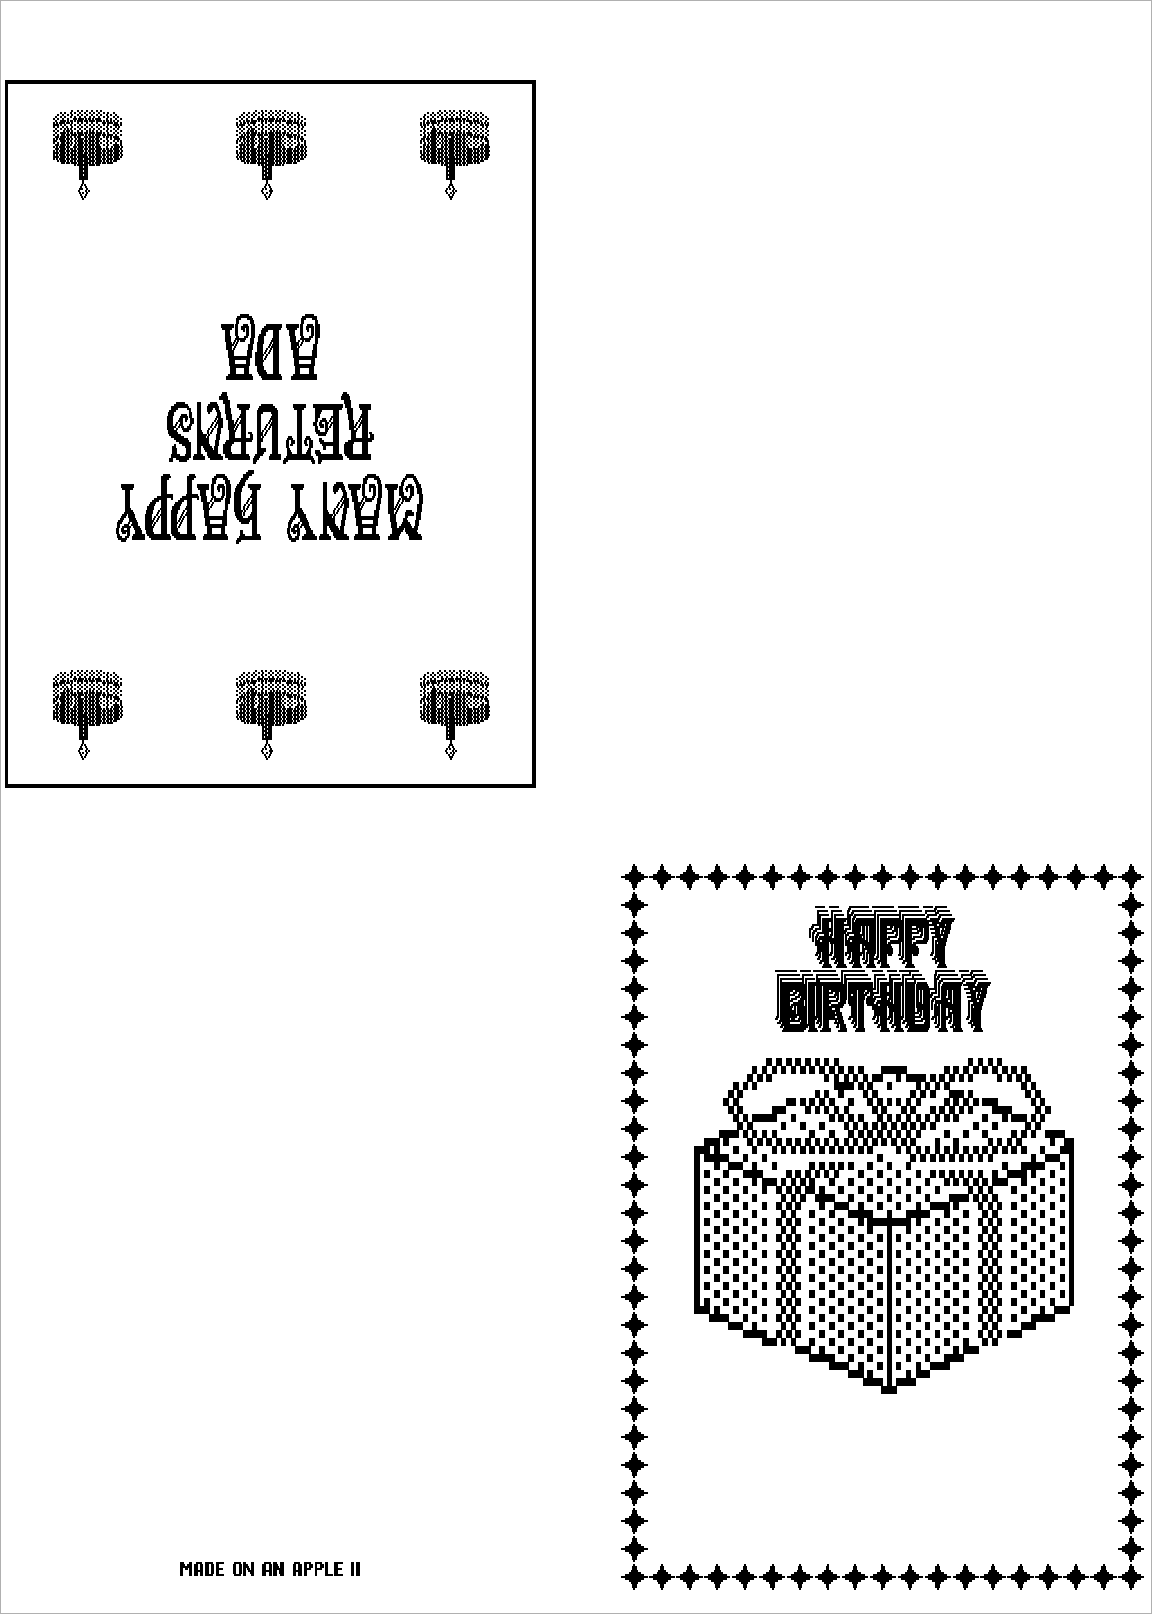
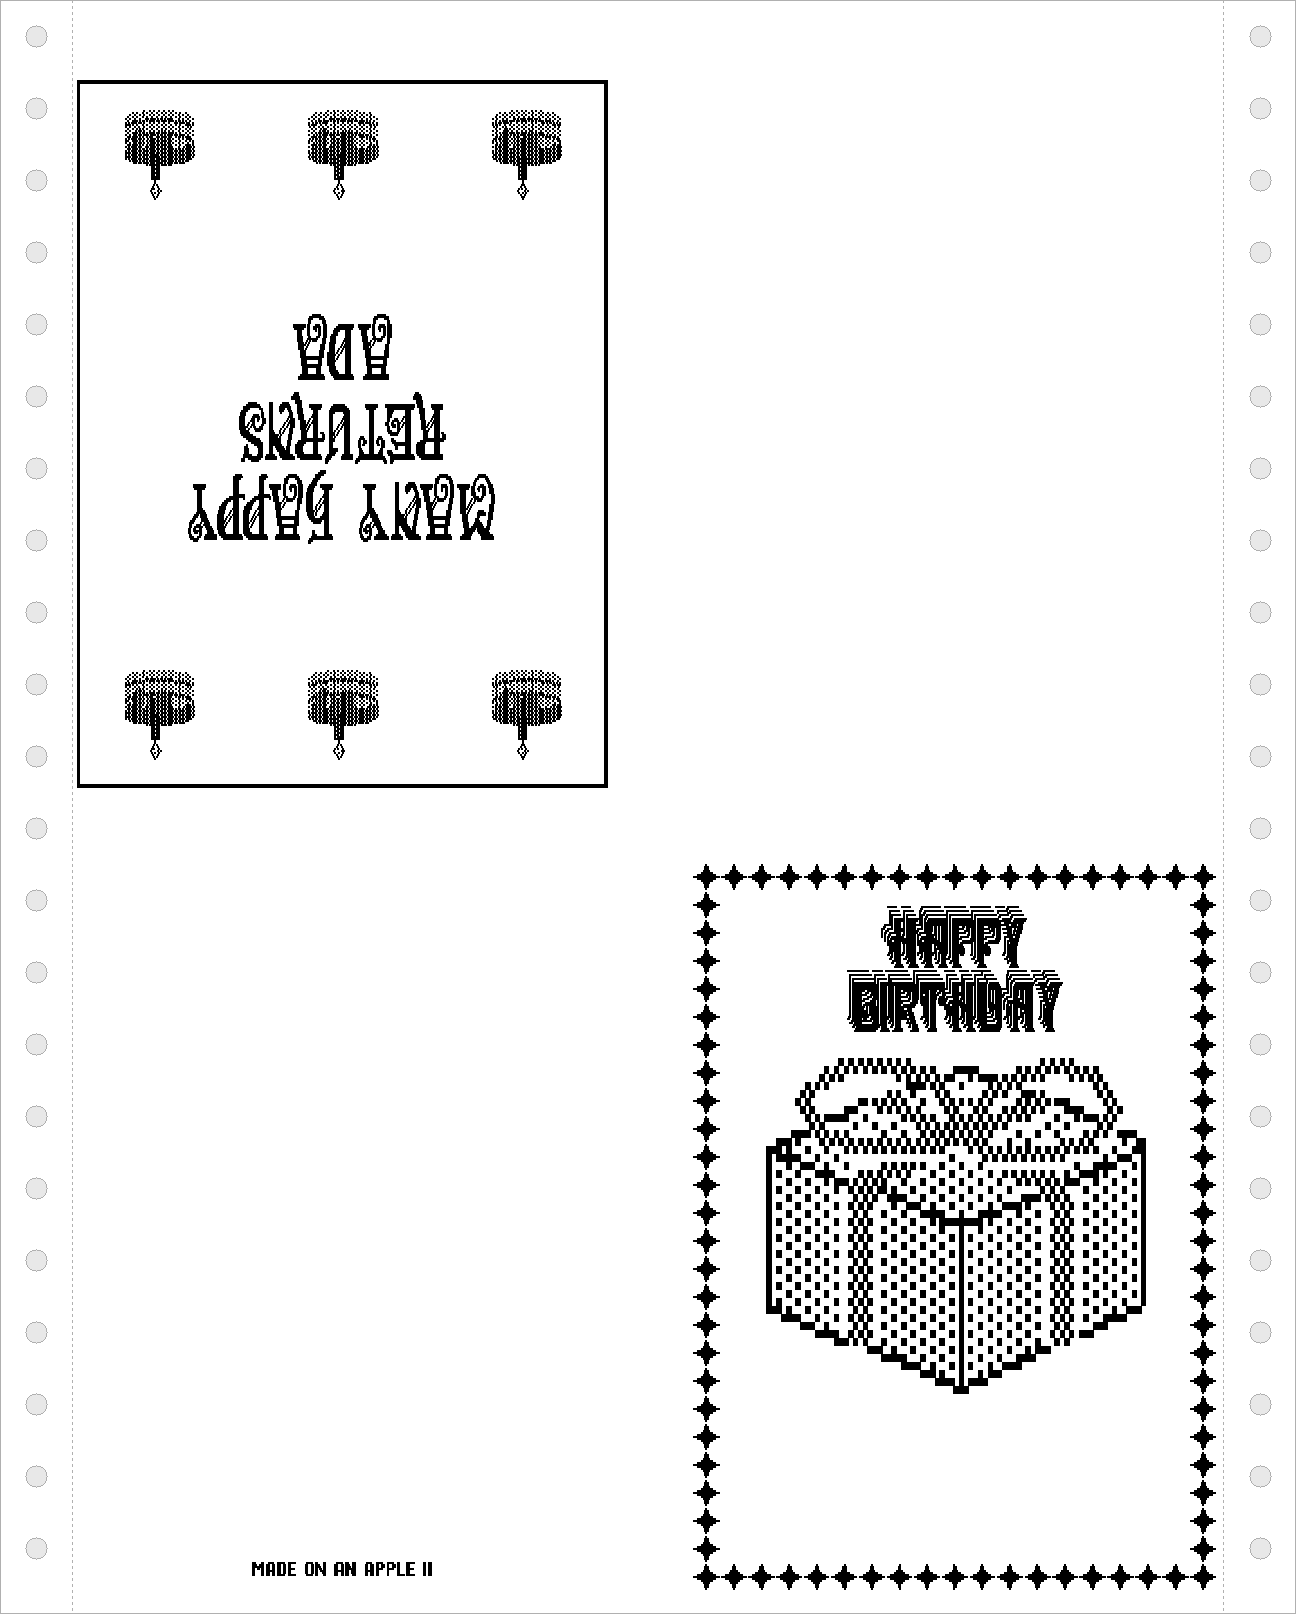
Draw the printouts of The Print Shop on paper with its strips of holes
The paper of the ImageWriter was continuous, fed by the holes of a strip
at each side, torn off after printing. With the strips the pictures look
like what came out of the printer, and the banner like the strip of paper
it was.

diff --git a/activities/printshop_test.go b/activities/printshop_test.go
@@ -427,8 +427,8 @@ func colourful(s *image.RGBA) bool {
 printout draws on paper what was printed since the printout before, with
 imagewriter2, which reads the codes of the ImageWriter and places each dot
 where the print head puts it, at 144 dots an inch, and keeps it as a picture
-of the guide, with a grey line at the edges of the paper. A banner, longer
-than it is wide, is turned to be read as it hangs.
+of the guide, with a grey line at the edges of the paper and its strips of
+holes. A banner, longer than it is wide, is turned to be read as it hangs.
 */
 func (ps *printShop) printout(name string) {
 	ps.t.Helper()
@@ -465,13 +465,23 @@ func (ps *printShop) printout(name string) {
 }
 
 // edged is a picture of the paper with a grey line around it, a margin of
-// paper around what was printed
+// paper around what was printed, and the strips of the continuous paper at
+// its sides, half an inch with a hole every half inch, torn off along a
+// perforation; a line or two, too short for them, has none
 func edged(drawn image.Image) *image.RGBA {
-	const margin = 24
+	const (
+		margin = 24
+		strip  = 72 // half an inch at 144 dots an inch
+		hole   = 22 // 5/32 of an inch
+	)
 	b := drawn.Bounds()
-	page := image.NewRGBA(image.Rect(0, 0, b.Dx(), b.Dy()+2*margin))
+	side := strip
+	if b.Dy()+2*margin < 4*strip {
+		side = 0
+	}
+	page := image.NewRGBA(image.Rect(0, 0, b.Dx()+2*side, b.Dy()+2*margin))
 	draw.Draw(page, page.Bounds(), image.White, image.Point{}, draw.Src)
-	draw.Draw(page, b.Add(image.Pt(0, margin)), drawn, b.Min, draw.Src)
+	draw.Draw(page, b.Add(image.Pt(side, margin)), drawn, b.Min, draw.Src)
 	edge := color.RGBA{0xb0, 0xb0, 0xb0, 0xff}
 	size := page.Bounds().Size()
 	for x := 0; x < size.X; x++ {
@@ -481,6 +491,33 @@ func edged(drawn image.Image) *image.RGBA {
 	for y := 0; y < size.Y; y++ {
 		page.Set(0, y, edge)
 		page.Set(size.X-1, y, edge)
+	}
+	if side == 0 {
+		return page
+	}
+	shadow := color.RGBA{0xe8, 0xe8, 0xe8, 0xff}
+	for _, x := range []int{side, size.X - 1 - side} {
+		for y := 0; y < size.Y; y += 6 {
+			for d := 0; d < 3 && y+d < size.Y; d++ {
+				page.Set(x, y+d, edge)
+			}
+		}
+	}
+	const r = hole / 2
+	for _, cx := range []int{side / 2, size.X - side/2} {
+		for cy := strip / 2; cy+r < size.Y; cy += strip {
+			for dy := -r; dy <= r; dy++ {
+				for dx := -r; dx <= r; dx++ {
+					d := dx*dx + dy*dy
+					switch {
+					case d <= (r-1)*(r-1):
+						page.Set(cx+dx, cy+dy, shadow)
+					case d <= r*r:
+						page.Set(cx+dx, cy+dy, edge)
+					}
+				}
+			}
+		}
 	}
 	return page
 }
